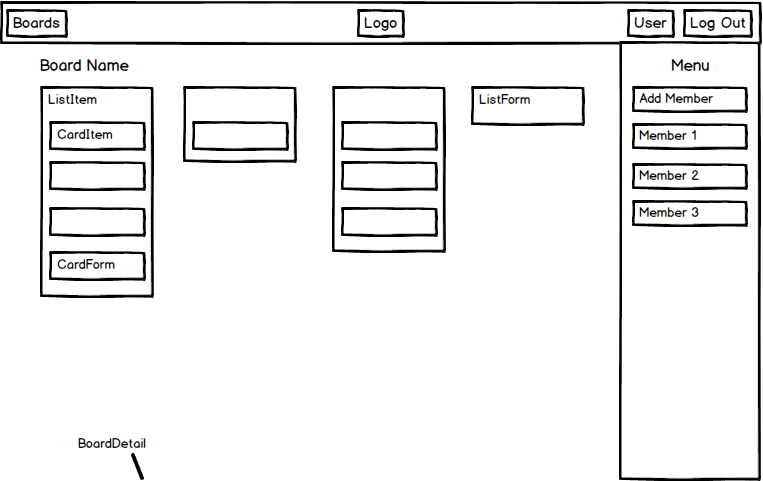
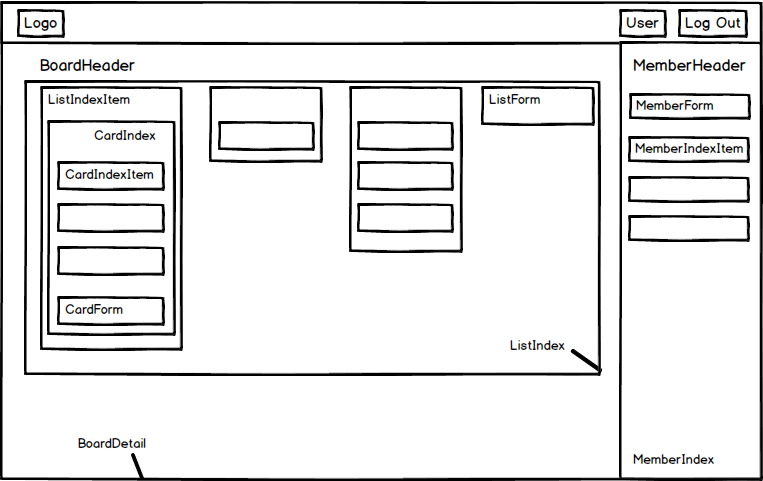
fix wireframes

Changed region(s): [[0.0, 0.0, 1.0, 1.0], [0.4522, 0.0, 0.5426, 0.0936], [0.8139, 0.9356, 0.9345, 0.9979]]

diff --git a/docs/component-hierarchy.md b/docs/component-hierarchy.md
@@ -5,11 +5,18 @@
 
 **HomeContainer**
  - Home
- - Sidebar
+ - Navbar
 
-**NotesContainer**
- - NotesHeader
-  * NoteIndex
+**BoardsContainer**
+ - BoardsHeader
+  - BoardsIndex
+    - BoardIndexItem
+    - BoardForm
+
+**BoardDetailContainer**
+  - BoardDetail
+    - ListIndex
+    - MemberMenu
 
 **NotebookContainer**
  - NotebookHeader

diff --git a/docs/README.md b/docs/README.md
@@ -6,8 +6,8 @@
 
 ## Minimum Viable Product
 
-Truello is a web application inspired by Trello built using
-Ruby on Rails and React/Redux.
+Truello is a project management web application inspired by Trello built
+using Ruby on Rails and React/Redux.
 
 ### Features
 - [ ] New account creation, login, and guest/demo login
